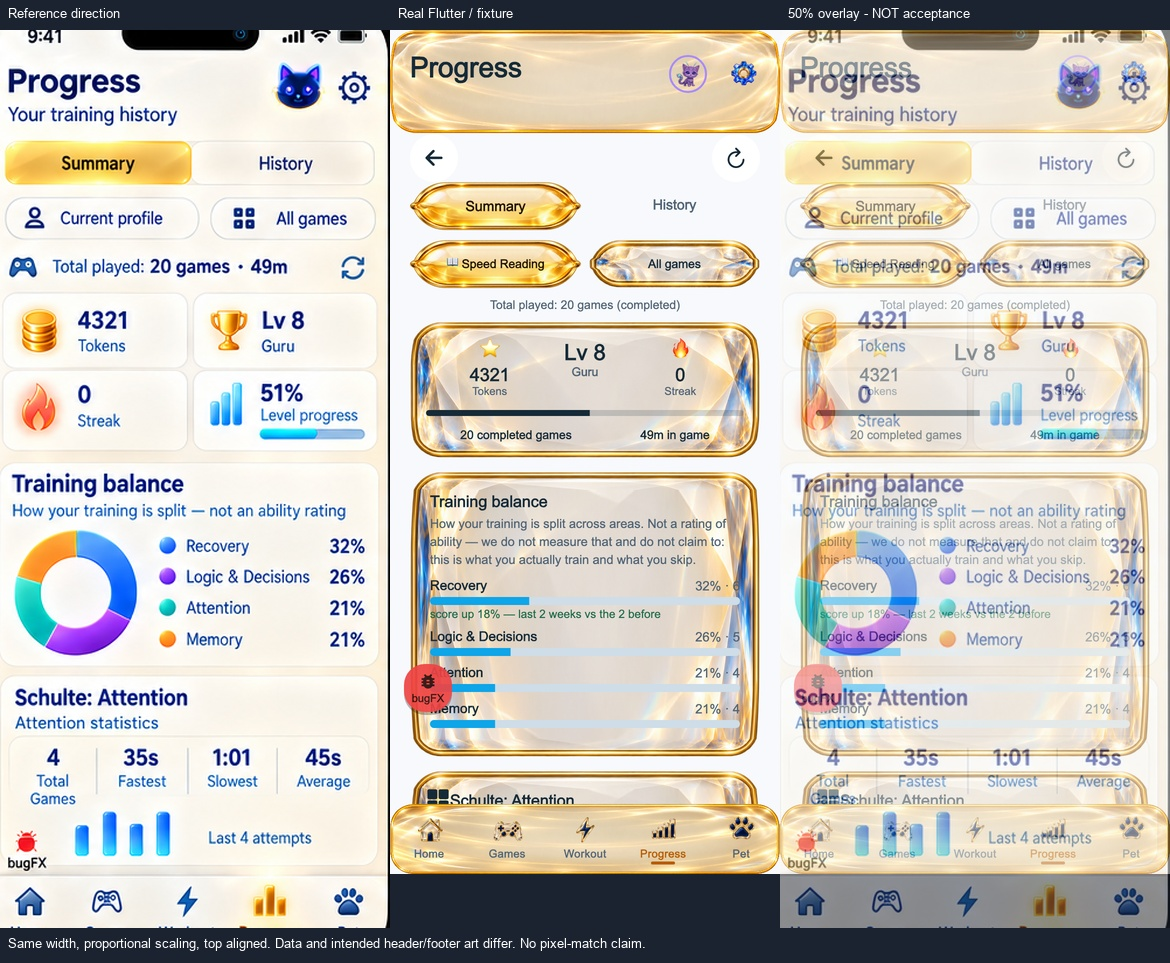
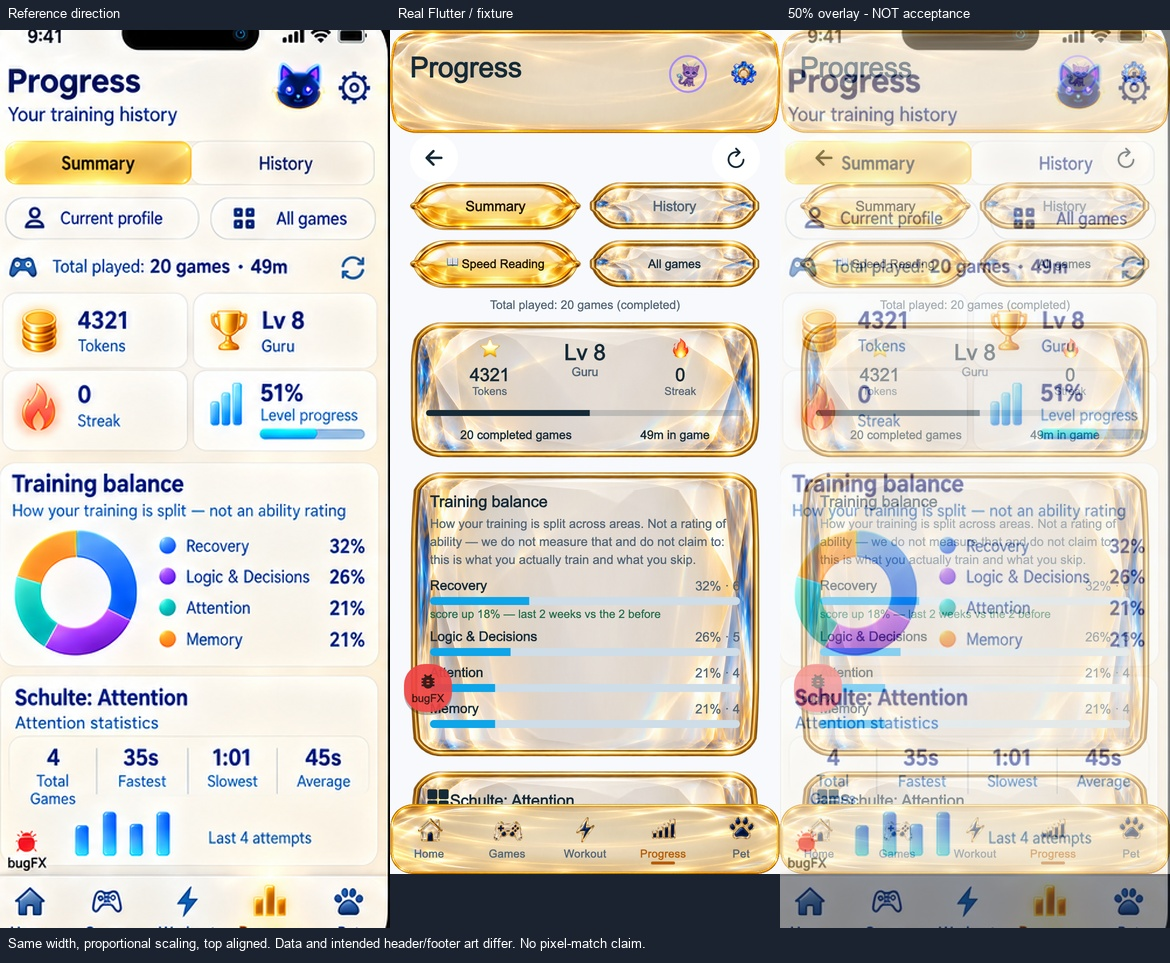
fix: retain jewel backplates on both Progress tabs

Changed region(s): [[0.8308, 0.1869, 0.9846, 0.2492], [0.4923, 0.1869, 0.6462, 0.2492]]

diff --git a/flutter/test/stats_screen_test.dart b/flutter/test/stats_screen_test.dart
@@ -3,6 +3,8 @@ import 'dart:io';
 
 import 'package:flutter/material.dart';
 import 'package:flutter_test/flutter_test.dart';
+import 'package:psygames_flutter/shell/app_theme.dart';
+import 'package:psygames_flutter/shell/design_template.dart';
 import 'package:psygames_flutter/shell/screen_ui.dart';
 import 'package:psygames_flutter/shell/stats_screen.dart';
 
@@ -45,6 +47,50 @@ void main() {
   Finder key(String k) => find.byKey(ValueKey(k));
   List<Map<String, Object?>> list(Object? v) => [for (final x in v as List) (x as Map).cast<String, Object?>()];
   Map<String, Object?> map(Object? v) => (v as Map).cast<String, Object?>();
+
+  for (final brightness in Brightness.values) {
+    testWidgets('Aurora ${brightness.name}: both tabs keep backplates before and after switching', (t) async {
+      t.view.physicalSize = const Size(780, 1688);
+      t.view.devicePixelRatio = 2;
+      addTearDown(t.view.reset);
+      ScreenUi.model(StatsScreen.route).value = model;
+      await t.pumpWidget(MaterialApp(
+        theme: applyUiTemplate(classicShellTheme(brightness), UiTemplate.aurora),
+        home: Scaffold(body: StatsScreen(onTab: tabs.add)),
+      ));
+      await t.pump();
+      String art(String id) {
+        final surface = t.widget<Container>(key('stats-tab-surface-$id'));
+        final image = (surface.decoration! as BoxDecoration).image;
+        expect(image, isNotNull, reason: '$id must retain its own backplate');
+        return (image!.image as ExactAssetImage).assetName;
+      }
+      final theme = brightness.name;
+      final before = [for (final id in ['summary', 'history']) t.getRect(key('stats-tab-$id'))];
+      expect(art('summary'), contains('approved_action.png'));
+      expect(art('history'), endsWith('$theme-panel.png'));
+      await t.tap(key('stats-tab-history'));
+      await t.pump();
+      expect(key('stats-history'), findsOneWidget);
+      expect(art('history'), contains('approved_action.png'));
+      expect(art('summary'), endsWith('$theme-panel.png'));
+      expect([for (final id in ['summary', 'history']) t.getRect(key('stats-tab-$id'))], before);
+      await t.tap(key('stats-tab-summary'));
+      await t.pump();
+      expect(key('stats-summary'), findsOneWidget);
+      expect(art('history'), endsWith('$theme-panel.png'));
+      expect(js, isEmpty, reason: 'local tab switching must not send model mutations');
+      expect(t.takeException(), isNull);
+    });
+  }
+
+  testWidgets('Classic keeps the original non-image tab decoration', (t) async {
+    await mount(t);
+    for (final id in ['summary', 'history']) {
+      final surface = t.widget<Container>(key('stats-tab-surface-$id'));
+      expect((surface.decoration! as BoxDecoration).image, isNull);
+    }
+  });
 
   testWidgets('без модели — ожидание, а не пустой экран', (t) async {
     ScreenUi.model(StatsScreen.route).value = null;

diff --git a/flutter/lib/shell/stats_screen.dart b/flutter/lib/shell/stats_screen.dart
@@ -208,10 +208,13 @@ class _StatsScreenState extends State<StatsScreen> {
                             behavior: HitTestBehavior.opaque,
                             onTap: () => setState(() => _tab = id),
                             child: Container(
+                              key: ValueKey('stats-tab-surface-$id'),
                               constraints: const BoxConstraints(minHeight: 48),
                               alignment: Alignment.center,
-                              decoration: ChromeArt.aurora(context) && _tab == id
-                                  ? const BoxDecoration(image: ChromeArt.action)
+                              decoration: ChromeArt.aurora(context)
+                                  ? _tab == id
+                                      ? const BoxDecoration(image: ChromeArt.action)
+                                      : ChromeArt.panel(context)
                                   : BoxDecoration(
                                 border: Border(bottom: BorderSide(color: _tab == id ? primary : Colors.transparent, width: 3)),
                               ),

diff --git a/flutter/tools/pack-progress-tabs-evidence.py b/flutter/tools/pack-progress-tabs-evidence.py
@@ -1,0 +1,16 @@
+"""Mechanical crops from real Flutter renders; no UI repainting."""
+from pathlib import Path
+from PIL import Image
+
+root = Path(__file__).resolve().parents[2]
+shots = root / 'flutter/test/design/preview'
+out = root / 'design-integration-evidence/four-tabs/progress-tabs-backplates.png'
+canvas = Image.new('RGB', (780, 496))
+for column, theme in enumerate(['dark', 'light']):
+    for row, state in enumerate(['top', 'history']):
+        image = Image.open(shots / f'statistics-{theme}-{state}.png').convert('RGB')
+        # Same physical coords for all captures; scale uniformly by 1/2.
+        crop = image.crop((0, 0, 780, 496)).resize((390, 248), Image.Resampling.LANCZOS)
+        canvas.paste(crop, (390 * column, 248 * row))
+canvas.save(out)
+print(out)

diff --git a/FOUR_TABS_IMPLEMENTATION_REF.md b/FOUR_TABS_IMPLEMENTATION_REF.md
@@ -84,3 +84,9 @@ Review entrypoint: `flutter/lib/design_integration_preview.dart`, реальны
 5. Массовая миграция игр, Rive-персонаж, новые аудио/вибропаттерны и публикация — не сделаны этим этапом. Музыкальный фикс ранее лежит отдельно в e635ed1bd/MUSIC_CONTINUITY_REF.md, устройство/прослушивание ещё не подтверждены.
 
 Откат: выключить отдельный dart-define для динамики; выбрать Classic для оформления; отменять только собственные небольшие коммиты. Без reset, очистки чужих деревьев и миграций реальных данных. TeamOps-задача остаётся in_progress до настоящей приёмки.
+
+## Уточнение приёмки: History без подложки · 01.11.2026
+
+Денис заметил, что History в Progress без подложки. Причина: у переключателя Summary/History изображение назначалось только выбранному элементу. Исправлено адресно в stats_screen.dart: у обеих вкладок всегда собственная подложка — выбранная золотая approved_action, неактивная dark/light-panel. При переключении оформление меняется местами без изменения размеров; модель/данные/действия истории и Classic не изменены. Это исправление переключателя, а не заявление, что весь визуальный остаток history rows уже принят.
+
+Добавлены regression tests на обе темы/оба направления переключения, отсутствие изменения геометрии и отсутствие новых model mutations; Classic остаётся без новых изображений. Stats + shared chrome37/37, preview/layout24/24, flutter analyze clean. Review debug.app пересобрана с исправлением, production AppInfo восстановлен. Снимки и overlay перегенерированы; компактные четыре состояния в design-integration-evidence/four-tabs/progress-tabs-backplates.png. Упаковка без перерисовки UI: python3 flutter/tools/pack-progress-tabs-evidence.py. Проверка физического телефона и публикация НЕ выполнялись.
